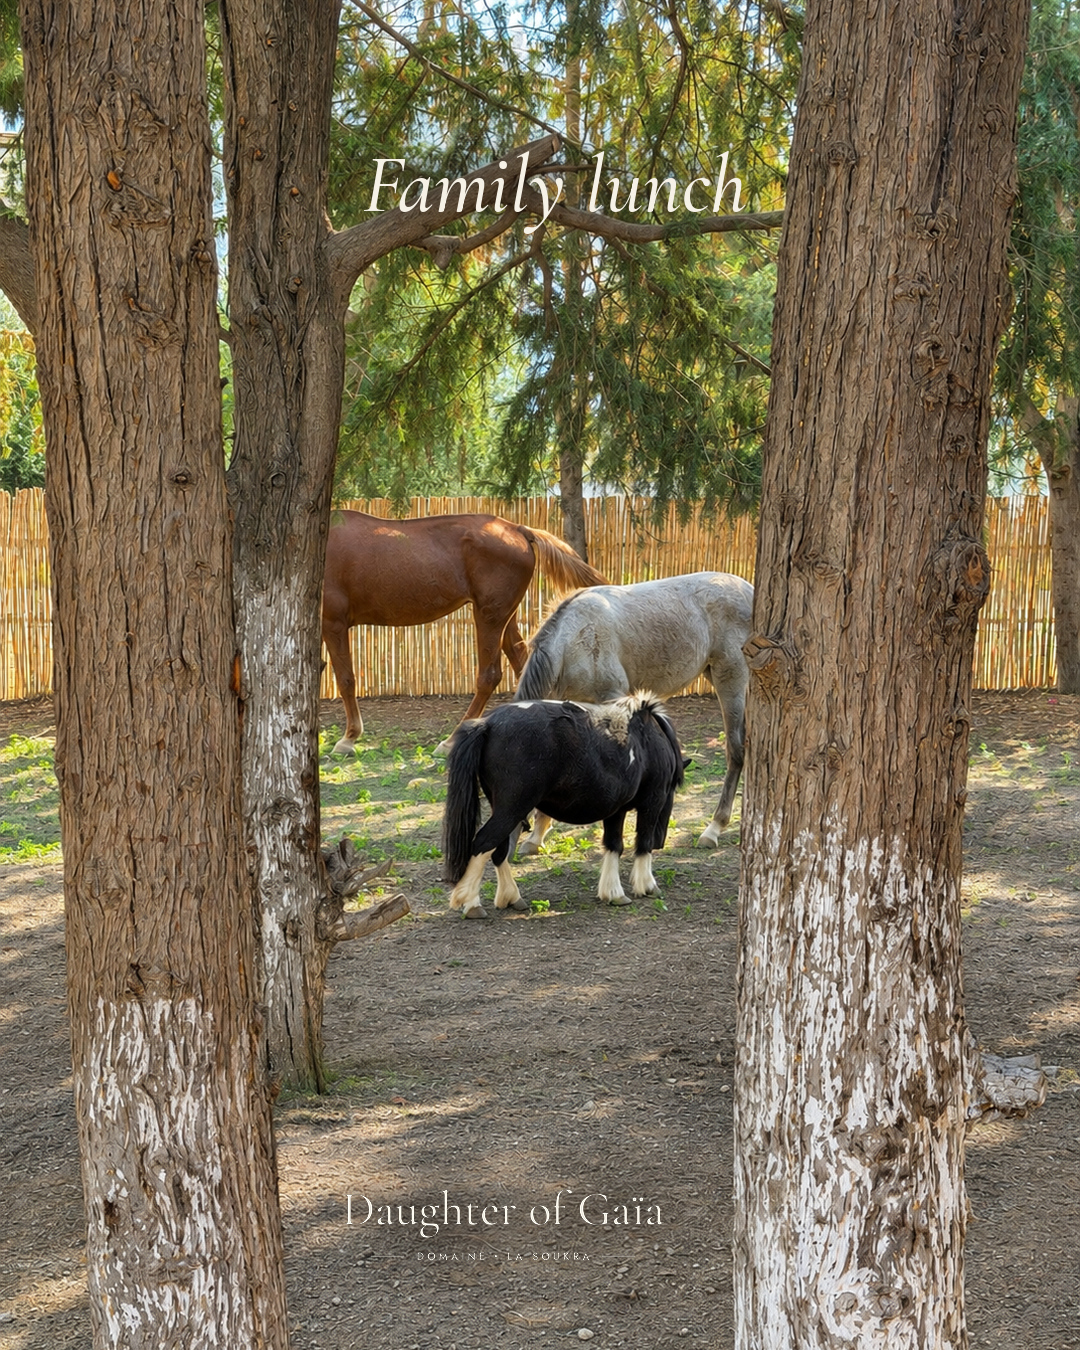
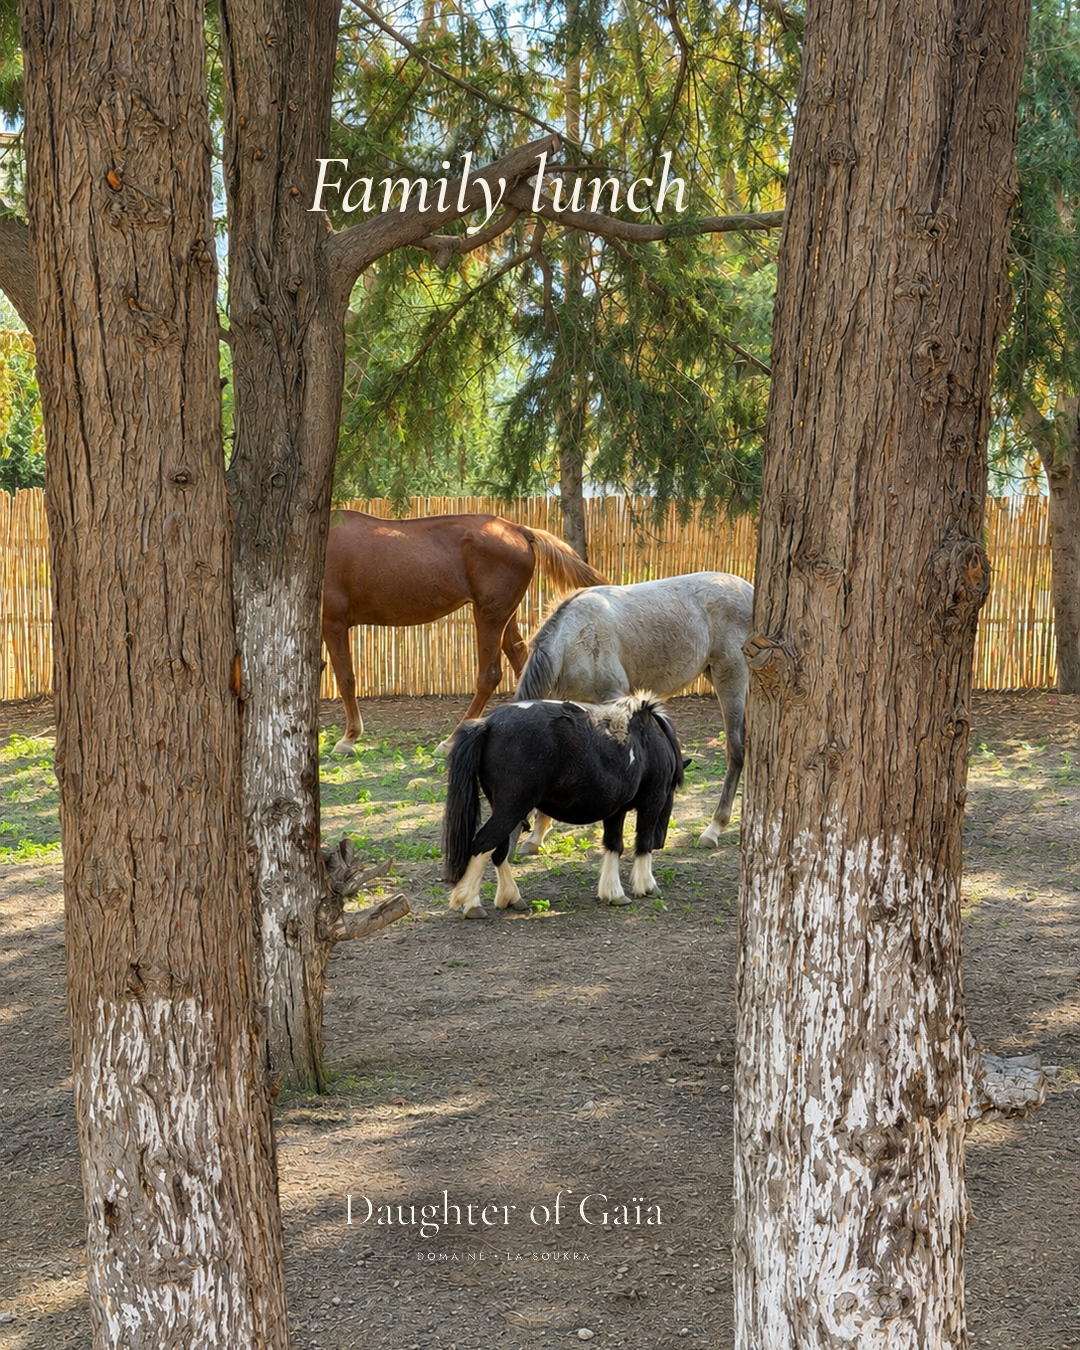
Post « Family lunch » : titre centré entre les deux grands troncs
Claude-Session: https://claude.ai/code/session_01NbEMafBkY3AdMos4dxswM8

Changed region(s): [[0.275, 0.0933, 0.7028, 0.1867]]

diff --git a/instagram/post_family_lunch.py b/instagram/post_family_lunch.py
@@ -13,9 +13,10 @@ from story_video import ombre_douce
 
 RACINE = Path(__file__).resolve().parent
 W, H = 1080, 1350
-# Le milieu de l'espace entre les deux troncs, mesuré sur l'image 4:5 :
-# en haut de 330 à 780, en bas de 278 à 730.
-CENTRE_HAUT, CENTRE_BAS = 555, 504
+# Le milieu de l'espace entre les deux grands troncs (sans compter le fin
+# tronc du milieu), mesuré sur l'image 4:5 : en haut de 215 à 780, en bas
+# de 278 à 730.
+CENTRE_HAUT, CENTRE_BAS = 498, 504
 
 
 def post():
